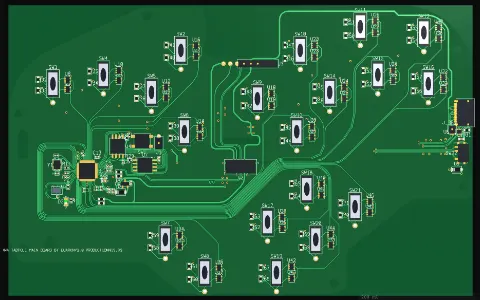
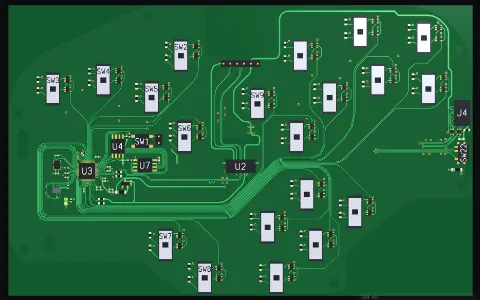
Render: labels and silkscreen on small dense boards
Small real boards (a 50-part ESP32 board is 3-5 parts/cm2) drew every reference outside
its body at a fixed size, so names covered neighbours and ran off the board. Dense labelling
(names inside bodies, giving way to each other) now also applies above 0.5 parts/cm2; the
teaching boards stay under 0.3 and keep their look. Labels and outlines follow body.off.

Silkscreen now prints over the tracks and under exposed pads (it was under the copper).
A body turned backwards turns in place over its pads (TO-92 keeps its swing). Long switches
get a small rectangular plunger and dark lettering on their plate; sockets mixing SMD
contacts with drilled shell legs show no pins through the housing; body-less parts draw no
body, outline or name. Board pictures re-rendered.

diff --git a/src/render/renderer.ts b/src/render/renderer.ts
@@ -211,6 +211,9 @@ function netHue(net: number): [number, number, number] {
 /** A label is drawn only when at least this tall on screen (CSS px). */
 const LABEL_MIN_PX = 9;
 
+/** Silkscreen height above the copper face (centre of a 0.02 mm layer): over the tracks (top +0.055), under exposed pads (top +0.065). */
+const SILK_Z = 0.05;
+
 interface Label { at: V2; text: string; size: number; side: Side; rot: number; z: number; rgb: [number, number, number]; prio: number; w: number; h: number }
 
 /** Stroke-font width of `text` at `size` (matches textStrokes: 0.62 glyph + 0.22 gap). */
@@ -479,7 +482,9 @@ export class Renderer {
     const ht = board.thickness / 2;
     const xray = vizMode === 'xray';
     const thermal = vizMode === 'thermal';
-    const dense = board.components.length > 150;
+    // dense: many parts, or parts packed tightly (a 50-part ESP32 board is 3–5 parts/cm²; the
+    // hand-made teaching boards stay under 0.3): labels then fit inside bodies and give way to each other
+    const dense = board.components.length > 150 || board.components.length / Math.max(1, board.w * board.h / 100) > 0.5;
     // dense 2D view shows one side at a time (the other side's copper would only add clutter)
     const is2DBoardview = dense && camera.mode === '2d';
     const both = camera.bothSides;
@@ -657,9 +662,10 @@ export class Renderer {
       if (both ? false : (is2DBoardview && !xray && tr.layer !== camera.side && net !== selectedNet)) continue;
       const isHov = hovered?.kind === 'trace' && hovered.trace === tr;
       const tint = netTint(net, isHov ? cuHover : cuDefault);
-      const z = effSide(tr.layer) === 'F' ? ht + 0.032 : -ht - 0.032;
+      // copper stack from the surface up: tracks (top +0.055) < silkscreen (+0.04…0.06) < exposed pads (+0.065)
+      const z = effSide(tr.layer) === 'F' ? ht + 0.03 : -ht - 0.03;
       pushTraceSeg(
-        mpt(tr.a, tr.layer), mpt(tr.b, tr.layer), tr.w, z, 0.055,
+        mpt(tr.a, tr.layer), mpt(tr.b, tr.layer), tr.w, z, 0.05,
         tint.rgb[0], tint.rgb[1], tint.rgb[2], xray ? 0.85 : 1,
         isHov ? 0.35 : tint.emissive, 0.65, 0.28, isHov ? -1 : tint.special,
       );
@@ -725,7 +731,7 @@ export class Renderer {
       const tint = netTint(net, isHov ? [1, 0.85, 0.35] : defaultViaRgb, EMISSIVITY.via);
       if (v.side) {
         const p = mpt(v.at, v.side);
-        const vz = effSide(v.side) === 'F' ? ht + 0.034 : -ht - 0.034;
+        const vz = effSide(v.side) === 'F' ? ht + 0.03 : -ht - 0.03;
         op.cyl.pushTRS(p[0], p[1], vz, v.d, v.d, 0.05, 0, tint.rgb[0], tint.rgb[1], tint.rgb[2], 1, isHov ? 0.35 : tint.emissive, 0.85, 0.24, isHov ? -1 : tint.special);
       } else {
         const pushThruVia = (pos: V2) => {
@@ -812,20 +818,20 @@ export class Renderer {
     const pushSilkSeg = (
       a: V2, b: V2, w: number, side: Side,
       rgb: [number, number, number] = [0.92, 0.94, 0.90],
-      zOff = 0.045,
+      zOff = SILK_Z,
     ) => {
       const z = side === 'F' ? ht + zOff : -ht - zOff;
       const dx = b[0] - a[0], dy = b[1] - a[1];
       const len = Math.hypot(dx, dy);
       if (len < 1e-4) return;
       const ang = (Math.atan2(dy, dx) * 180) / Math.PI;
-      op.box.pushTRS((a[0] + b[0]) * 0.5, (a[1] + b[1]) * 0.5, z, len, w, 0.025, ang, rgb[0], rgb[1], rgb[2], 1, 0.05, 0.05, 0.6);
+      op.box.pushTRS((a[0] + b[0]) * 0.5, (a[1] + b[1]) * 0.5, z, len, w, 0.02, ang, rgb[0], rgb[1], rgb[2], 1, 0.05, 0.05, 0.6);
     };
 
     const pushSilkText = (
       at: V2, text: string, size: number, side: Side, rotDeg = 0,
       rgb: [number, number, number] = [0.92, 0.94, 0.90],
-      zOff = 0.045,
+      zOff = SILK_Z,
     ) => {
       const segs = textStrokes(text, size);
       const rad = rotDeg * DEG;
@@ -860,7 +866,7 @@ export class Renderer {
       if (t.size < minLabelMm || !inView(at)) continue;
       const vert = Math.abs(Math.sin((t.rot ?? 0) * DEG)) > 0.7;
       const tw = textWidth(t.text, t.size);
-      labels.push({ at, text: t.text, size: t.size, side: effSide(t.side), rot: t.rot ?? 0, z: 0.045, rgb: boardSilkCol, prio: t.size, w: vert ? t.size : tw, h: vert ? tw : t.size });
+      labels.push({ at, text: t.text, size: t.size, side: effSide(t.side), rot: t.rot ?? 0, z: SILK_Z, rgb: boardSilkCol, prio: t.size, w: vert ? t.size : tw, h: vert ? tw : t.size });
     }
 
     // 8. Components, Pads, Solder Joints, and Silkscreen Courtyards
@@ -889,7 +895,7 @@ export class Renderer {
         const dPadSide: Side = both ? 'F' : p.layers === 'FB' ? 'FB' as unknown as Side : padSide;
         const hasF = p.layers === 'F' || p.layers === 'FB';
         const hasB = p.layers === 'B' || p.layers === 'FB';
-        const zOff = is2DBoardview ? 0.038 : 0.036;
+        const zOff = is2DBoardview ? 0.042 : 0.04; // pad top +0.065: exposed copper, above the silkscreen
         const zCenter = (!both && p.layers === 'FB') ? 0 : dPadSide === 'F' ? ht + zOff : -ht - zOff;
         const padH = (!both && p.layers === 'FB') ? board.thickness + 0.08 : 0.05;
         const padPos = mpt(pw.at, c.side);
@@ -948,6 +954,9 @@ export class Renderer {
         }
       }
 
+      // no body (a fiducial; the bench supply's clips on the board's own pads): no outline, name or body
+      if (c.body.shape === 'none') continue;
+
       // Silkscreen reference + polarity indicator
       const rad = c.rot * DEG;
       const cs = Math.cos(rad), sn = Math.sin(rad);
@@ -964,12 +973,13 @@ export class Renderer {
         const oy = c.body.off?.[1] ?? 0, rx = c.body.w * 0.5 + 0.3, ry = c.body.h * 0.5 + 0.3;
         const pts: V2[] = [[-rx, oy], [-rx, oy - ry], [rx, oy - ry], [rx, oy]];
         for (let i = 1; i <= 10; i++) { const a = (i / 10) * Math.PI; pts.push([rx * Math.cos(a), oy + ry * Math.sin(a)]); }
-        for (let i = 0; i + 1 < pts.length; i++) pushSilkSeg(localToWorld(...pts[i]), localToWorld(...pts[i + 1]), 0.14, dSide, [0.92, 0.94, 0.90], 0.045);
+        for (let i = 0; i + 1 < pts.length; i++) pushSilkSeg(localToWorld(...pts[i]), localToWorld(...pts[i + 1]), 0.14, dSide, [0.92, 0.94, 0.90], SILK_Z);
       } else if (!dense || focus) {
-        const c0 = localToWorld(-hw, -hh), c1 = localToWorld(hw, -hh), c2 = localToWorld(hw, hh), c3 = localToWorld(-hw, hh);
+        const [bx, by] = c.body.off ?? [0, 0]; // around the body, which may sit off the footprint origin
+        const c0 = localToWorld(bx - hw, by - hh), c1 = localToWorld(bx + hw, by - hh), c2 = localToWorld(bx + hw, by + hh), c3 = localToWorld(bx - hw, by + hh);
         const outlineCol: [number, number, number] = dense ? [0.98, 0.85, 0.30] : [0.92, 0.94, 0.90];
         const outlineW = dense ? 0.09 : 0.12;
-        const outlineZ = dense ? 0.062 : 0.045;
+        const outlineZ = dense ? 0.062 : SILK_Z;
         pushSilkSeg(c0, c1, outlineW, dSide, outlineCol, outlineZ);
         pushSilkSeg(c1, c2, outlineW, dSide, outlineCol, outlineZ);
         pushSilkSeg(c2, c3, outlineW, dSide, outlineCol, outlineZ);
@@ -977,12 +987,19 @@ export class Renderer {
       }
 
       const dispPos = mpt(c.at, c.side);
+      // the body's centre; on a long switch the plate beside its plunger (which stands in the middle)
+      const [ox, oy] = c.body.off ?? [0, 0];
+      const longSwitch = c.body.shape === 'tactile' && Math.max(c.body.w, c.body.h) >= 1.5 * Math.min(c.body.w, c.body.h);
+      const along = longSwitch ? Math.max(c.body.w, c.body.h) * 0.27 : 0;
+      const labelPos = ox || oy || along ? localToWorld(ox + (c.body.w >= c.body.h ? along : 0), oy + (c.body.w >= c.body.h ? 0 : along)) : dispPos;
       if (dense) {
         // Fit the reference inside the body (screen-aligned extent), turned 90° on tall parts.
-        if (focus || inView(dispPos)) {
+        if (focus || inView(labelPos)) {
           const r = c.rot * DEG;
-          const ex = Math.abs(c.body.w * Math.cos(r)) + Math.abs(c.body.h * Math.sin(r));
-          const ey = Math.abs(c.body.w * Math.sin(r)) + Math.abs(c.body.h * Math.cos(r));
+          const lw = longSwitch && c.body.w >= c.body.h ? c.body.w * 0.3 : c.body.w * (longSwitch ? 0.86 : 1);
+          const lh = longSwitch && c.body.h > c.body.w ? c.body.h * 0.3 : c.body.h * (longSwitch ? 0.86 : 1);
+          const ex = Math.abs(lw * Math.cos(r)) + Math.abs(lh * Math.sin(r));
+          const ey = Math.abs(lw * Math.sin(r)) + Math.abs(lh * Math.cos(r));
           const per = textWidth(c.ref, 1);
           const fit = c.body.shape === 'box' && c.pads.length === 2 ? 0.62 : 0.95; // between the end caps
           const hSize = Math.min(2.4, ey * 0.6, (ex * fit) / per);
@@ -992,14 +1009,16 @@ export class Renderer {
           if (focus) size = Math.max(size, Math.min(minLabelMm * 1.1, 3)); // the part in focus is always named
           if (focus || size >= minLabelMm) {
             const tw = per * size;
-            const z = c.state.populated ? c.body.z + 0.05 : 0.085;
-            labels.push({ at: dispPos, text: c.ref, size, side: dSide, rot: vert ? 90 : 0, z, rgb: focus ? [1, 0.9, 0.4] : [0.95, 0.97, 1.0], prio: focus ? Infinity : ex * ey, w: vert ? size : tw, h: vert ? tw : size });
+            const z = !c.state.populated ? 0.085 : longSwitch ? c.body.z * 0.66 + 0.17 : c.body.z + 0.05; // a long switch: on its plate
+            // a switch has a light top plate: dark lettering there
+            labels.push({ at: labelPos, text: c.ref, size, side: dSide, rot: vert ? 90 : 0, z, rgb: focus ? [1, 0.9, 0.4] : c.body.shape === 'tactile' ? [0.1, 0.11, 0.13] : [0.95, 0.97, 1.0], prio: focus ? Infinity : ex * ey, w: vert ? size : tw, h: vert ? tw : size });
           }
         }
       } else {
         const refOff = c.body.shape === 'coin' ? -c.body.h * 0.5 - 1.6 : c.body.h * 0.5 + 1.3;
         // a TO-92 stands in front of its pads, with traces leaving behind them: its reference goes beside the body
-        const refAt = c.body.shape === 'to92' ? localToWorld(-(c.body.w * 0.5 + 2), c.body.off?.[1] ?? 0) : localToWorld(0, refOff);
+        const [bx, by] = c.body.off ?? [0, 0]; // beside the body, which may sit off the footprint origin
+        const refAt = c.body.shape === 'to92' ? localToWorld(-(c.body.w * 0.5 + 2), by) : localToWorld(bx, by + refOff);
         pushSilkText(refAt, c.ref, 1.25, dSide, 0);
 
         // Polarity mark on silkscreen (fixed to footprint, does NOT rotate when reversed!)
@@ -1155,11 +1174,15 @@ export class Renderer {
     const effRot = displayRot + (c.state.reversed ? 180 : 0);
     const rad = effRot * DEG;
     const cs = Math.cos(rad), sn = Math.sin(rad);
-    // body outline may sit off the footprint origin (asymmetric connectors, modules)
-    const [ox, oy] = c.body.off ?? [0, 0];
+    // body outline may sit off the footprint origin (asymmetric connectors, modules, pin-1-origin
+    // through-hole parts). A part fitted backwards turns in place over its own pads; only the TO-92
+    // swings to the other side of its pad row (its flat face then faces the other way).
+    const [ox0, oy0] = c.body.off ?? [0, 0];
+    const offRad = (c.body.shape === 'to92' ? effRot : displayRot) * DEG;
+    const ox = ox0 * Math.cos(offRad) - oy0 * Math.sin(offRad), oy = ox0 * Math.sin(offRad) + oy0 * Math.cos(offRad);
     const toW = (lx: number, ly: number, lz: number): V3 => [
-      displayAt[0] + (lx + ox) * cs - (ly + oy) * sn,
-      displayAt[1] + (lx + ox) * sn + (ly + oy) * cs,
+      displayAt[0] + ox + lx * cs - ly * sn,
+      displayAt[1] + oy + lx * sn + ly * cs,
       baseZ + sgn * lz,
     ];
     const padRad = displayRot * DEG;
@@ -1339,7 +1362,12 @@ export class Renderer {
       const pBox = toW(0, 0, c.body.z * 0.32);
       const hc = thermCol ?? [0.12, 0.13, 0.16];
       op.box.pushTRS(pBox[0], pBox[1], pBox[2], c.body.w, c.body.h, c.body.z * 0.64, effRot, hc[0], hc[1], hc[2], 1, thermEm, 0.05, 0.65, spec);
-      for (const p of c.pads) {
+      // Pins stand out of the housing on a pin header (every pad drilled). A socket mixing SMD
+      // contacts with drilled shell legs (micro-USB, USB-C) has none on top. No drill data
+      // at all (boardviews): pins as before.
+      const drilled = c.pads.filter((p) => p.drill).length;
+      const pinsOnTop = drilled === 0 || drilled === c.pads.length;
+      for (const p of pinsOnTop ? c.pads : []) {
         const pw = toPadW(p.at[0], p.at[1], c.body.z * 0.55);
         op.box.pushTRS(pw[0], pw[1], pw[2], 0.64, 0.64, c.body.z * 0.95, effRot, 0.92, 0.74, 0.24, 1, 0, 0.95, 0.2);
       }
@@ -1355,7 +1383,17 @@ export class Renderer {
       const bc = thermCol ?? [0.16, 0.17, 0.20];
       op.box.pushTRS(pBody[0], pBody[1], pBody[2], c.body.w, c.body.h, c.body.z * 0.68, effRot, bc[0], bc[1], bc[2], 1, thermEm, 0.1, 0.6, spec);
       op.box.pushTRS(pTop[0], pTop[1], pTop[2], c.body.w * 0.86, c.body.h * 0.86, 0.3, effRot, 0.76, 0.78, 0.82, 1, 0, 0.9, 0.25, spec);
-      op.cyl.pushTRS(pBtn[0], pBtn[1], pBtn[2], c.body.w * 0.52, c.body.h * 0.52, btnH, effRot, pressed ? 0.22 : 0.12, pressed ? 0.75 : 0.13, pressed ? 0.45 : 0.16, 1, pressed ? 0.2 : 0, 0.1, 0.45, spec);
+      const capCol: [number, number, number] = [pressed ? 0.22 : 0.12, pressed ? 0.75 : 0.13, pressed ? 0.45 : 0.16];
+      const short = Math.min(c.body.w, c.body.h), long = Math.max(c.body.w, c.body.h);
+      if (long / short >= 1.5) {
+        // long microswitch: a small rectangular plunger, not a round cap stretched along the body
+        const along = long * 0.16, across = short * 0.4;
+        const [pw, ph] = c.body.w >= c.body.h ? [along, across] : [across, along];
+        op.box.pushTRS(pBtn[0], pBtn[1], pBtn[2], pw, ph, btnH, effRot, capCol[0], capCol[1], capCol[2], 1, pressed ? 0.2 : 0, 0.1, 0.45, spec);
+      } else {
+        // round cap, kept round on a slightly oblong body
+        op.cyl.pushTRS(pBtn[0], pBtn[1], pBtn[2], short * 0.52, short * 0.52, btnH, effRot, capCol[0], capCol[1], capCol[2], 1, pressed ? 0.2 : 0, 0.1, 0.45, spec);
+      }
       return;
     }
 
